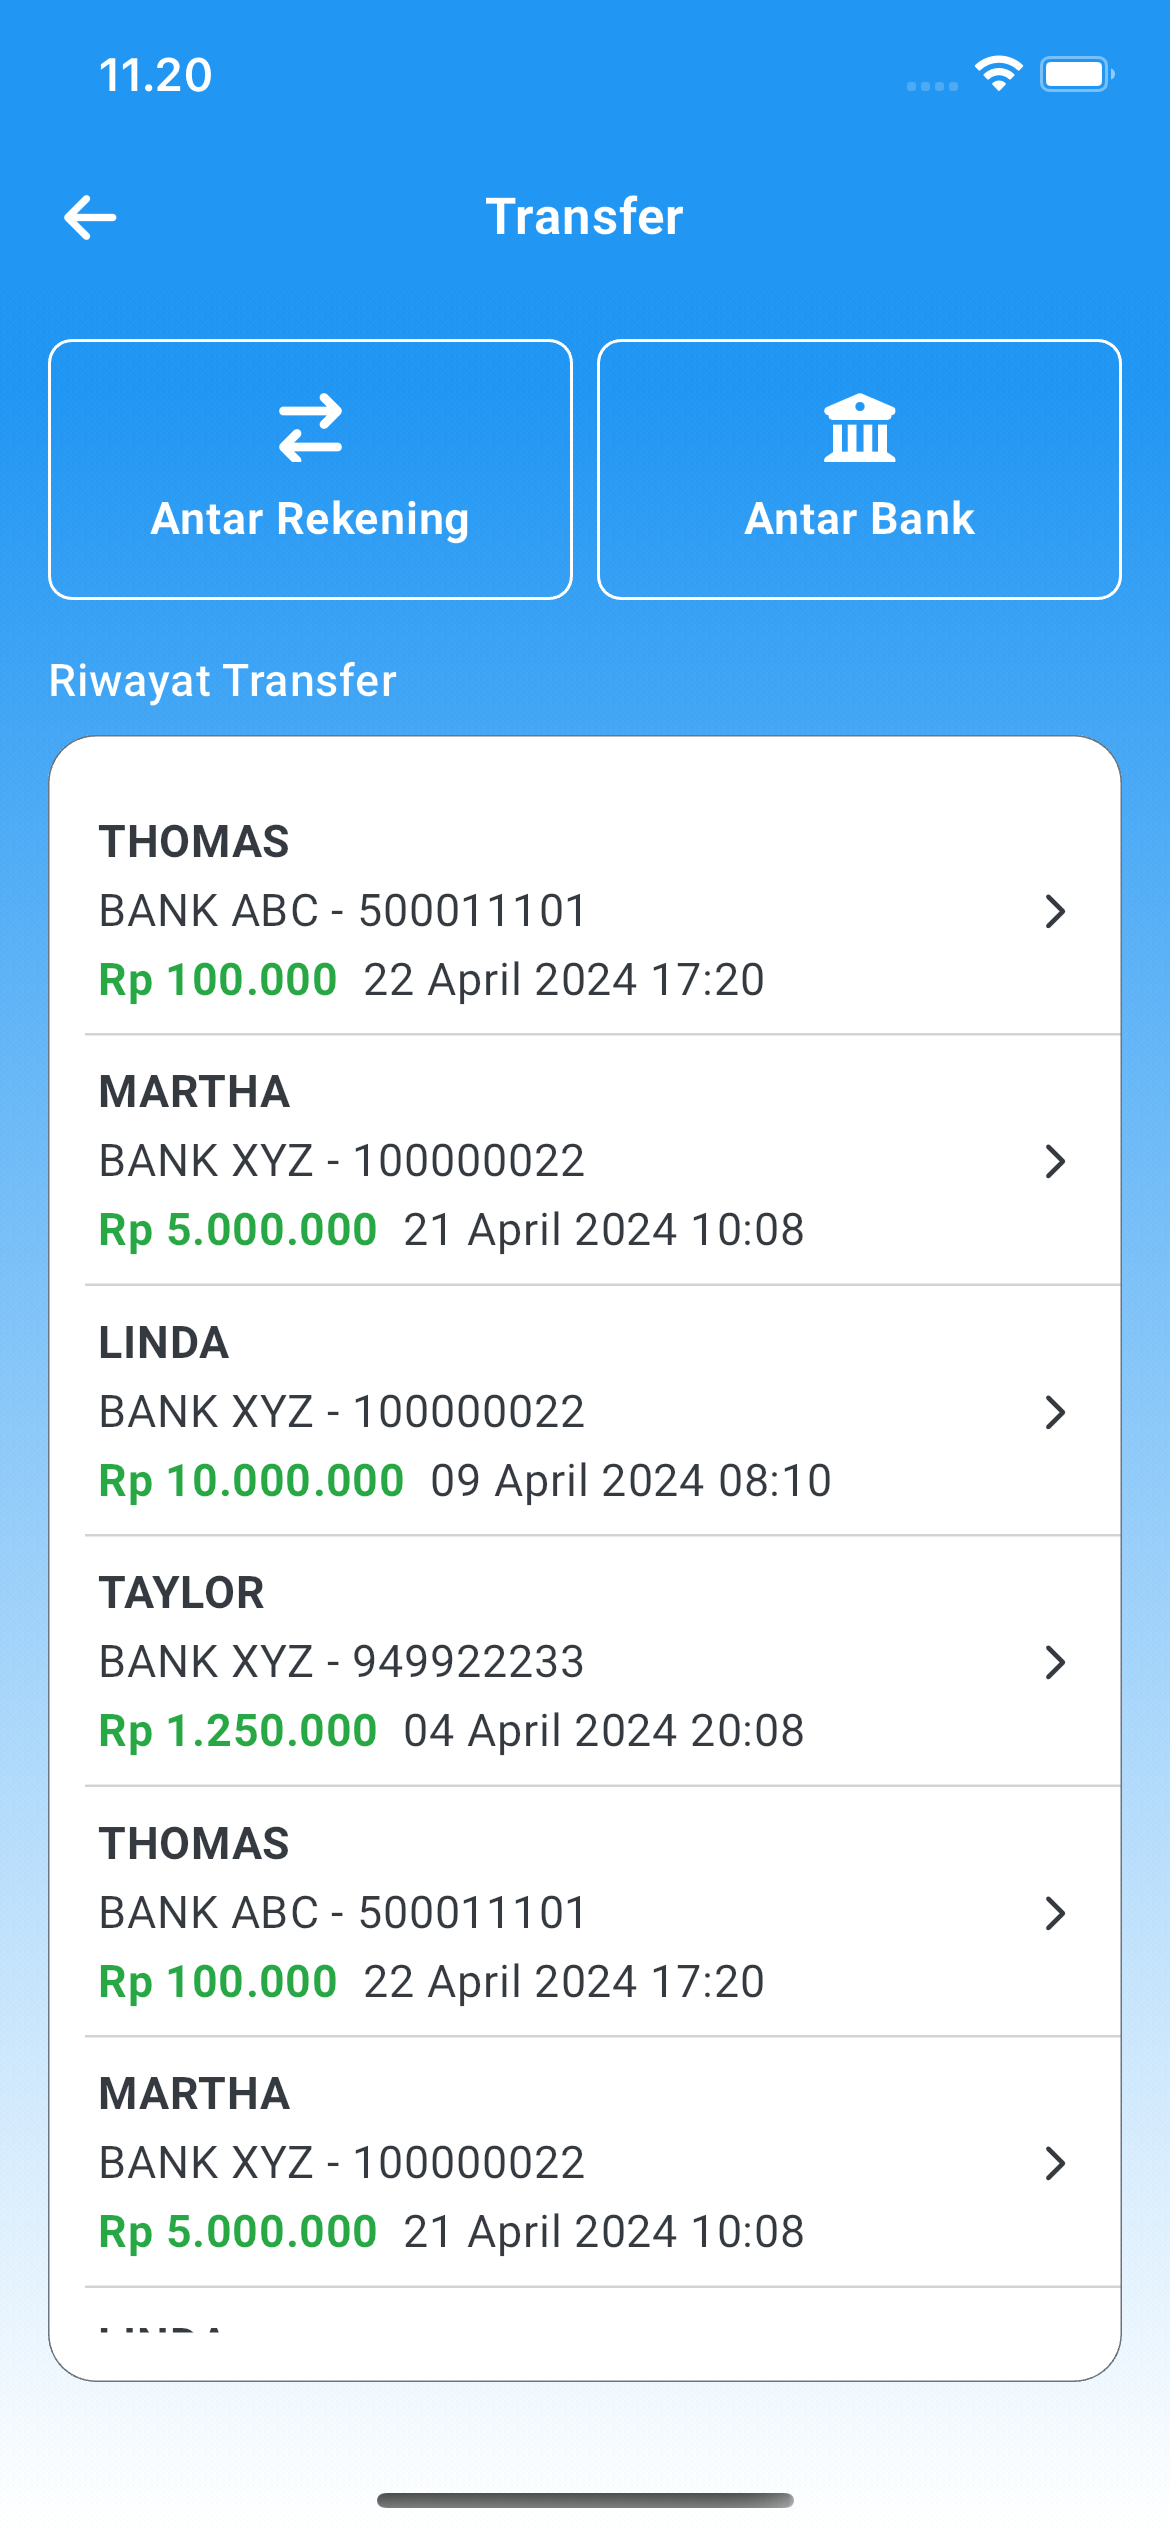
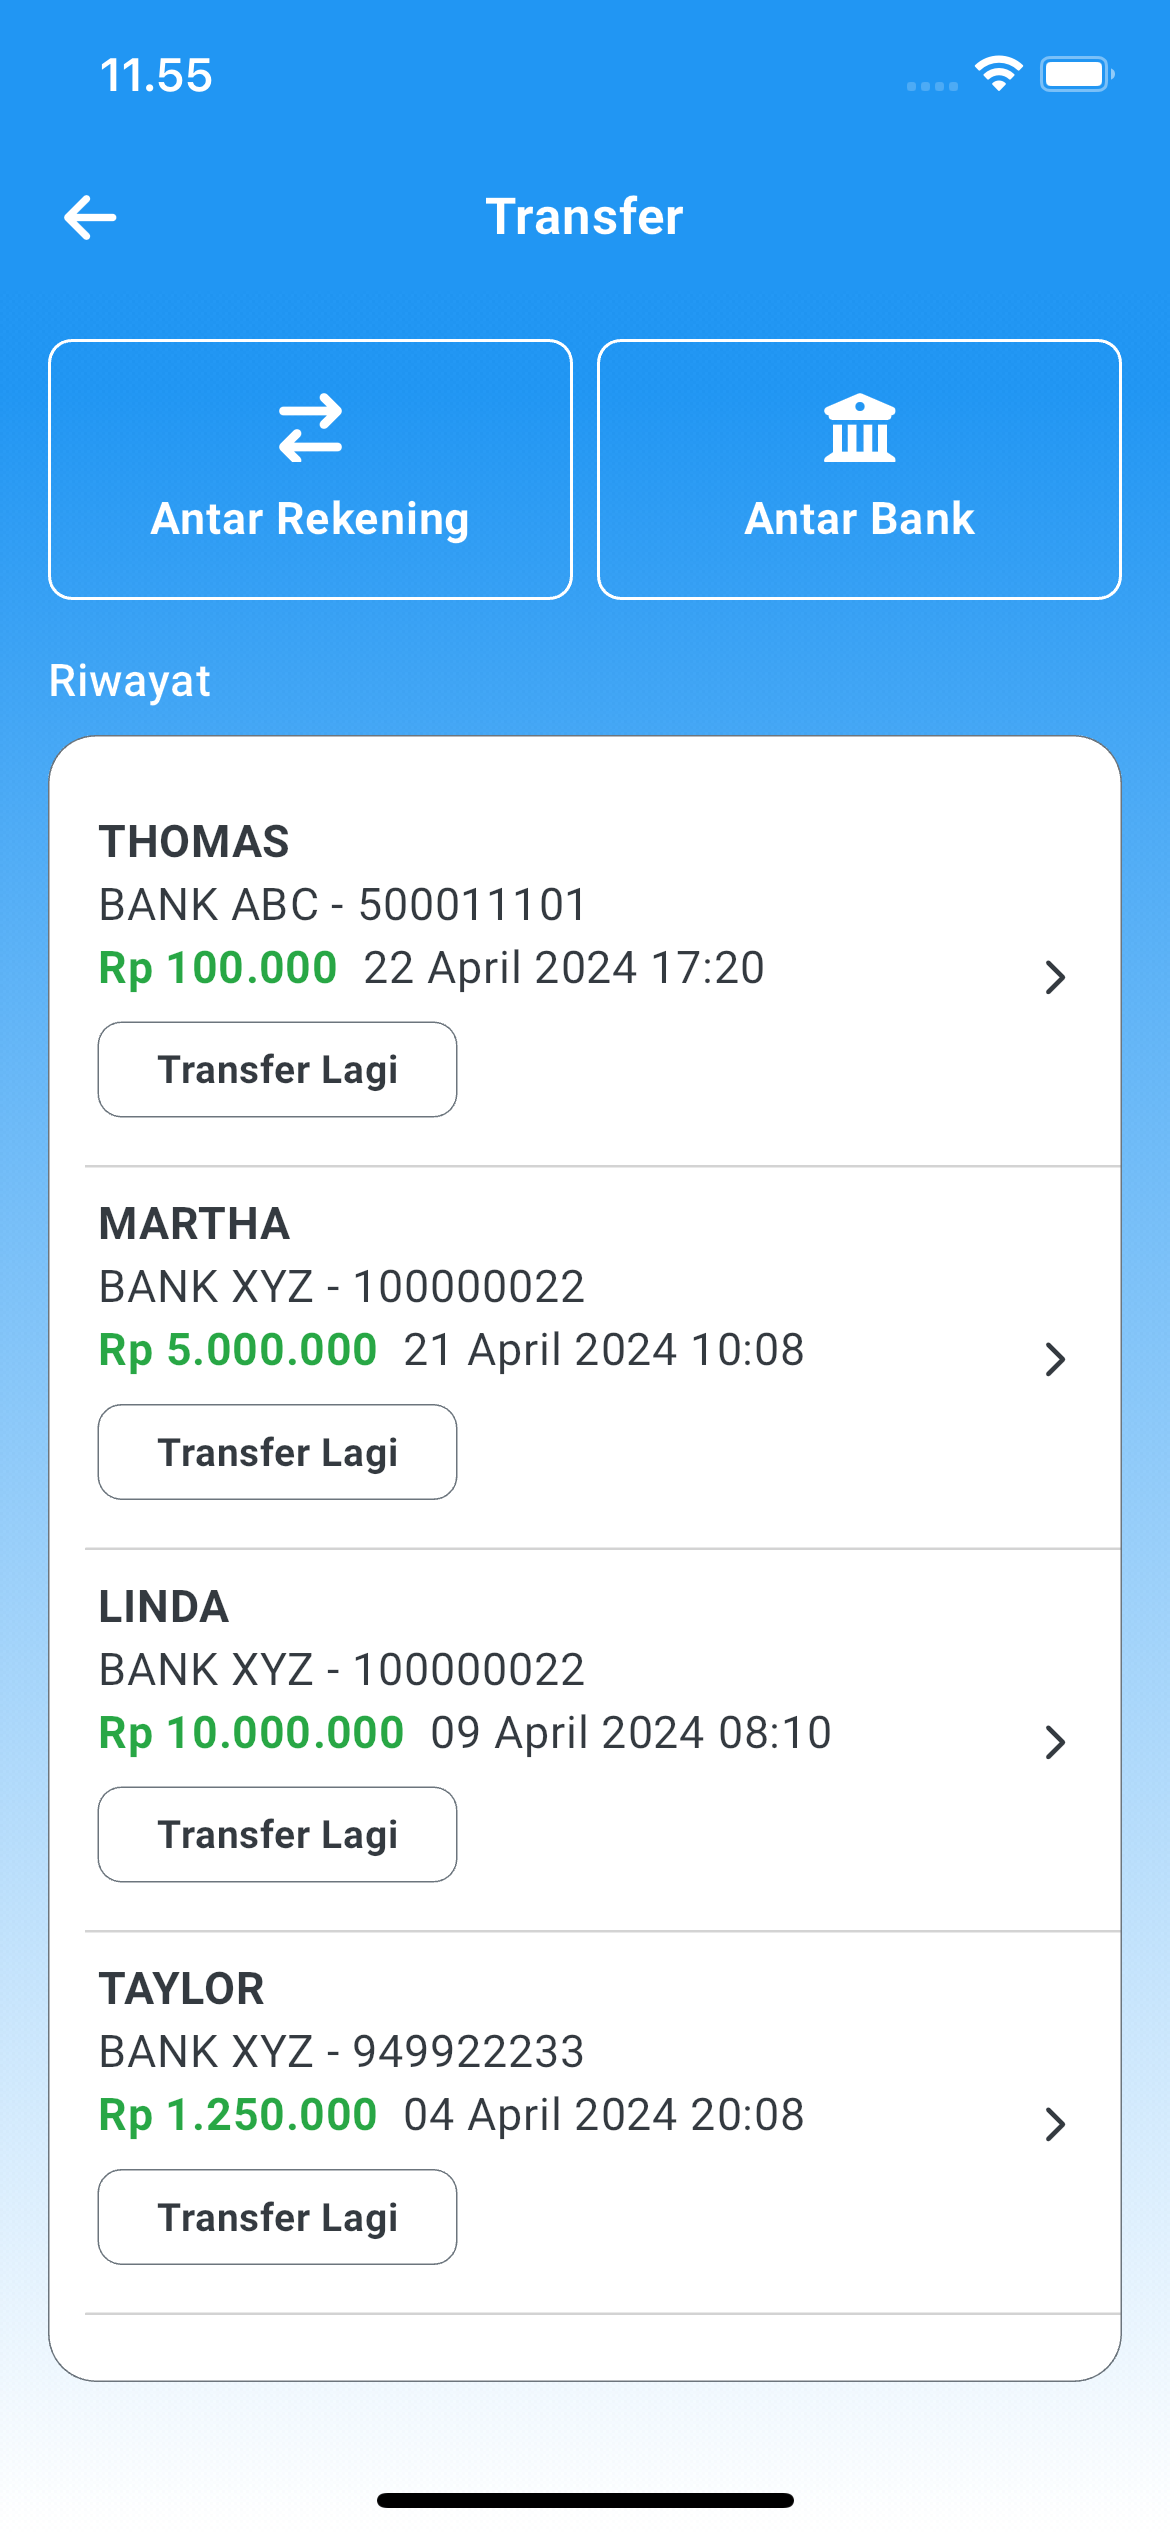
Transfer

diff --git a/lib/views/mbx_receipt_screen/mbx_receipt_screen.dart b/lib/views/mbx_receipt_screen/mbx_receipt_screen.dart
@@ -152,10 +152,10 @@ class MbxReceiptScreen extends StatelessWidget {
                                       fontWeight: FontWeight.w600,
                                       backgroundColor: ColorX.transparent,
                                       borderWidth: 0.5,
-                                      borderColor: ColorX.black,
+                                      borderColor: ColorX.gray,
                                       width: 120.0,
                                       height: 32.0,
-                                      cornerRadius: 16.0,
+                                      cornerRadius: 8.0,
                                       onClicked: controller.btnShareClicked,
                                     ),
                                     ContainerX(width: 8.0),
@@ -166,10 +166,10 @@ class MbxReceiptScreen extends StatelessWidget {
                                       fontWeight: FontWeight.w600,
                                       backgroundColor: ColorX.transparent,
                                       borderWidth: 0.5,
-                                      borderColor: ColorX.black,
+                                      borderColor: ColorX.gray,
                                       width: 120.0,
                                       height: 32.0,
-                                      cornerRadius: 16.0,
+                                      cornerRadius: 8.0,
                                       onClicked: controller.btnDownloadClicked,
                                     ),
                                   ],

diff --git a/lib/views/mbx_transfer_screen/mbx_transfer_history_widget.dart b/lib/views/mbx_transfer_screen/mbx_transfer_history_widget.dart
@@ -27,7 +27,6 @@ class MbxTransferHistoryWidget extends StatelessWidget {
                     textAlign: TextAlign.start,
                     maxLines: 8,
                   ),
-                  SizedBox(height: 2.0),
                   TextX(
                     '${history.bank} - ${history.account}',
                     color: ColorX.black,
@@ -36,7 +35,6 @@ class MbxTransferHistoryWidget extends StatelessWidget {
                     textAlign: TextAlign.start,
                     maxLines: 8,
                   ),
-                  SizedBox(height: 2.0),
                   Row(children: [
                     TextX(
                       MbxFormatVM.currencyRP(history.amount,
@@ -59,6 +57,21 @@ class MbxTransferHistoryWidget extends StatelessWidget {
                       ),
                     ),
                   ]),
+                  SizedBox(height: 8.0),
+                  ButtonX(
+                    title: 'Transfer Lagi',
+                    titleColor: ColorX.black,
+                    fontSize: 13.0,
+                    fontWeight: FontWeight.w700,
+                    backgroundColor: ColorX.transparent,
+                    borderWidth: 0.5,
+                    borderColor: ColorX.gray,
+                    width: 120.0,
+                    height: 32.0,
+                    cornerRadius: 8.0,
+                    //onClicked: controller.btnShareClicked,
+                  ),
+                  SizedBox(height: 8.0),
                 ],
               ),
             ),

diff --git a/lib/views/mbx_transfer_screen/mbx_transfer_controller.dart b/lib/views/mbx_transfer_screen/mbx_transfer_controller.dart
@@ -3,6 +3,8 @@ import 'package:get/get.dart';
 import 'package:mbankingflutter/models/mbx_transfer_history_model.dart';
 import 'package:mbankingflutter/viewmodels/mbx_transfer_history_list_vm.dart';
 
+import '../../models/mbx_receipt_model.dart';
+
 class MbxTransferController extends GetxController {
   final scrollController = ScrollController();
   var historyListVM = MbxTransferHistoryListVM();
@@ -30,6 +32,7 @@ class MbxTransferController extends GetxController {
   }
 
   openHistory(MbxTransferHistoryModel dest) {
-    //Get.to(MbxQRISAmountScreen(inquiry: MbxQRISInquiryModel()));
+    Get.toNamed('/receipt',
+        arguments: {'receipt': MbxReceiptModel(), 'backToHome': false});
   }
 }

diff --git a/lib/views/mbx_transfer_screen/mbx_transfer_screen.dart b/lib/views/mbx_transfer_screen/mbx_transfer_screen.dart
@@ -95,7 +95,7 @@ class MbxTransferScreen extends StatelessWidget {
                     padding: EdgeInsets.only(
                         left: 16.0, top: 0.0, right: 16.0, bottom: 8.0),
                     child: TextX(
-                      'Riwayat Transfer',
+                      'Riwayat',
                       color: ColorX.white,
                       fontSize: 15.0,
                       fontWeight: FontWeight.w500,
